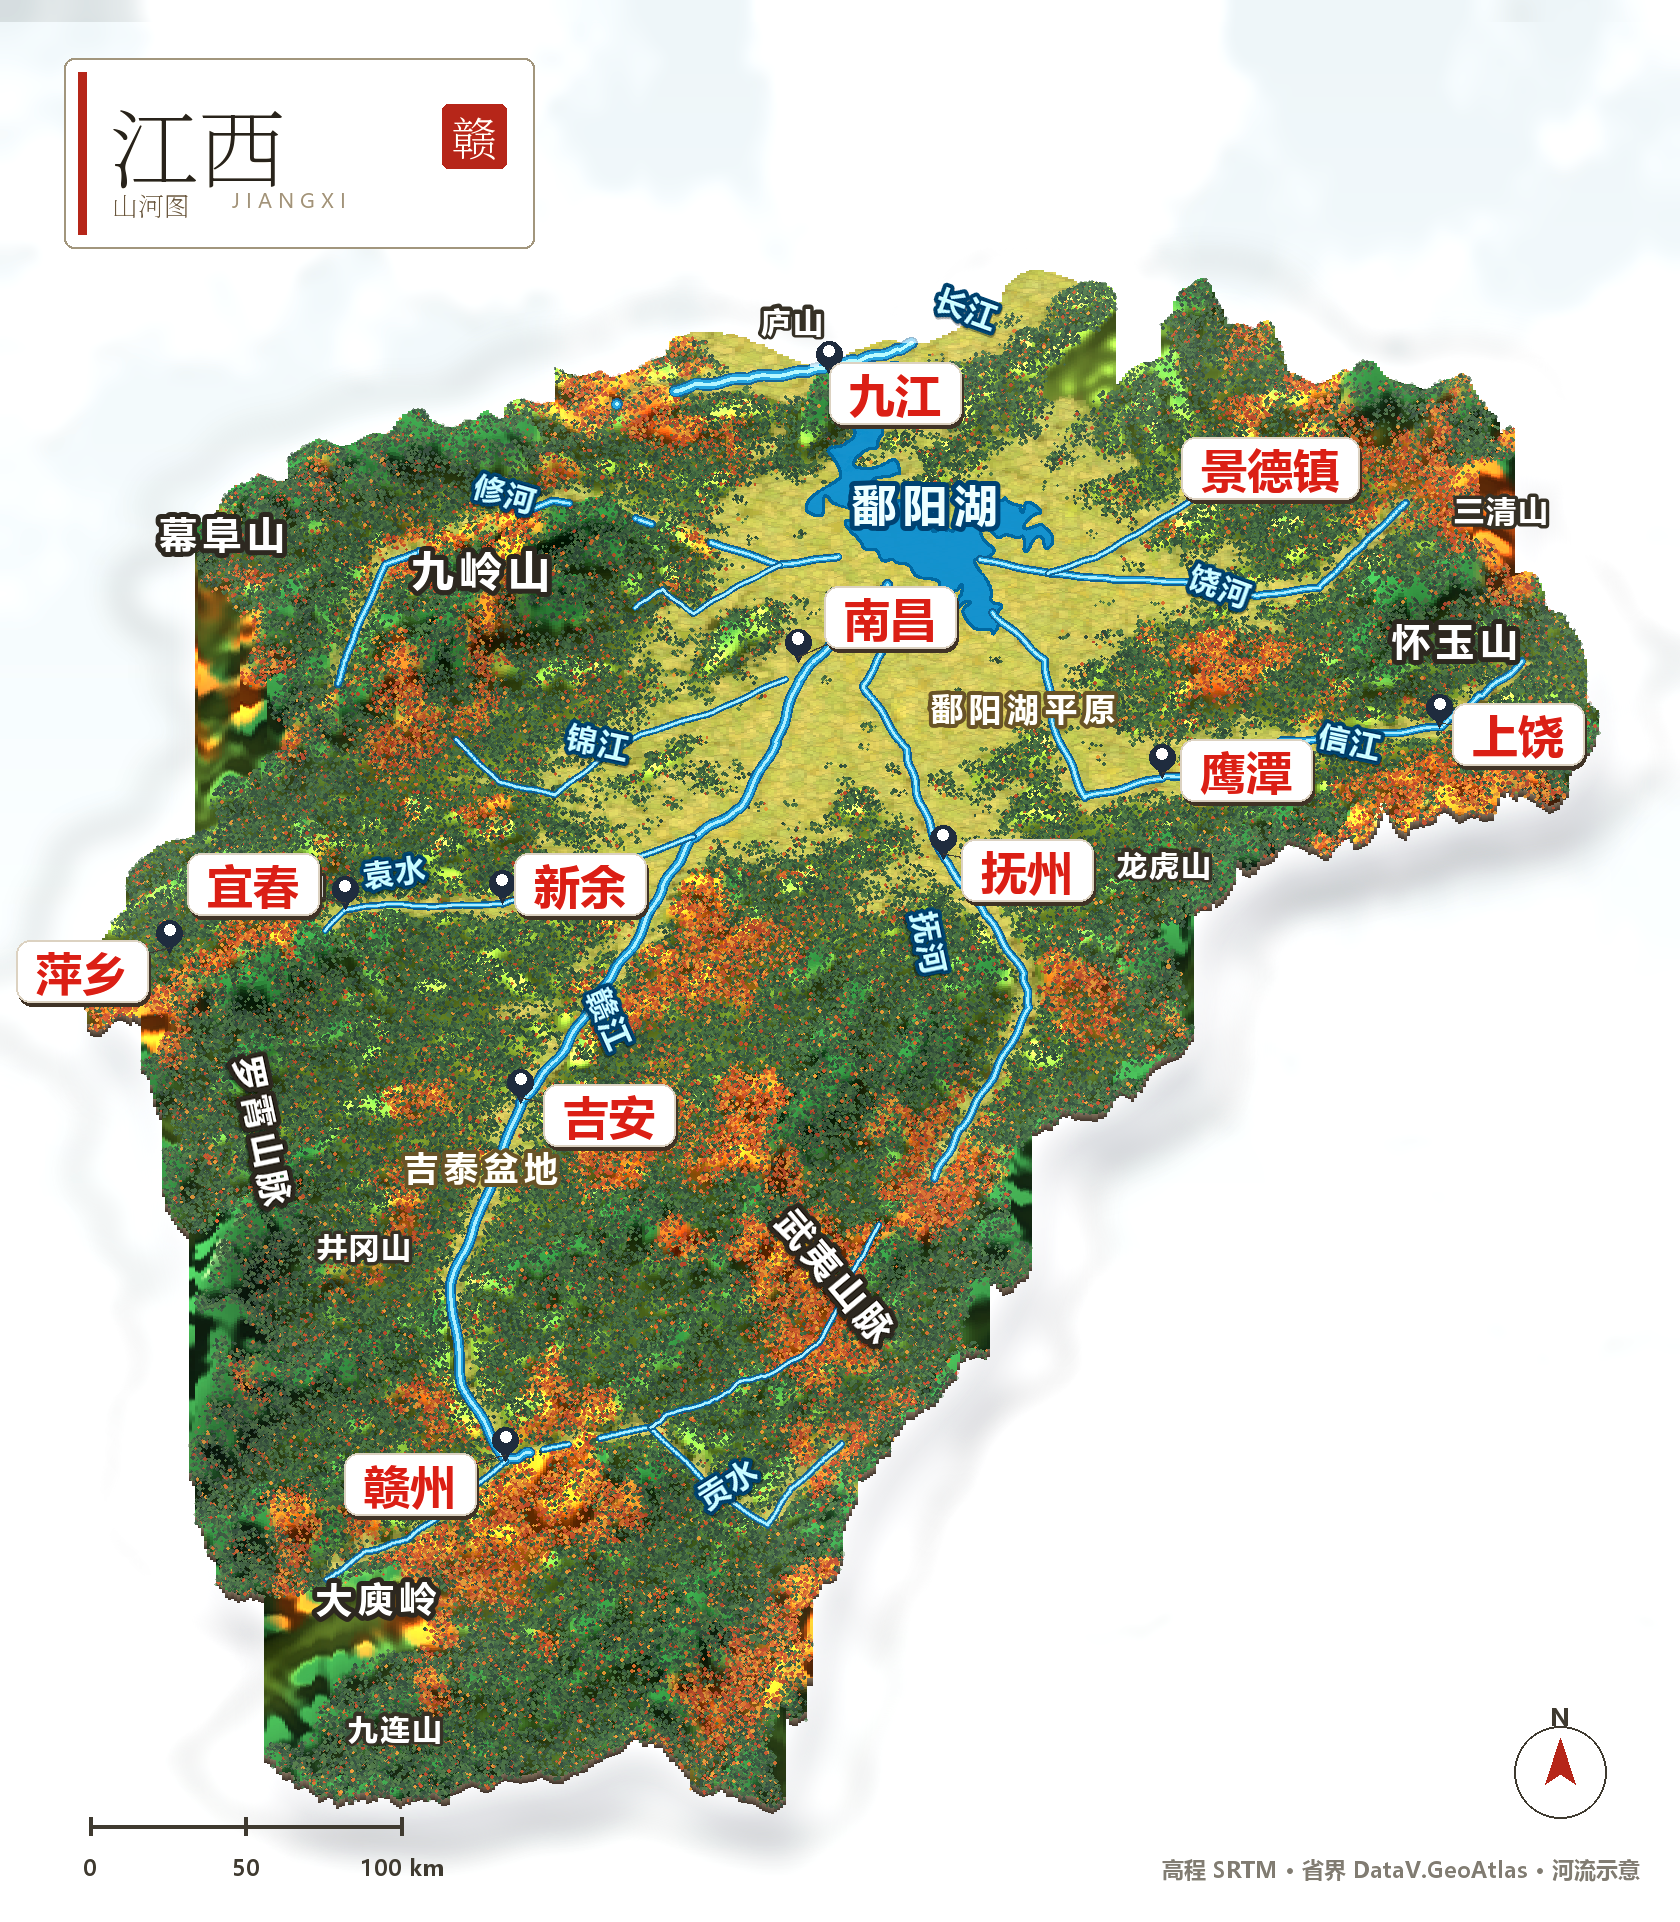
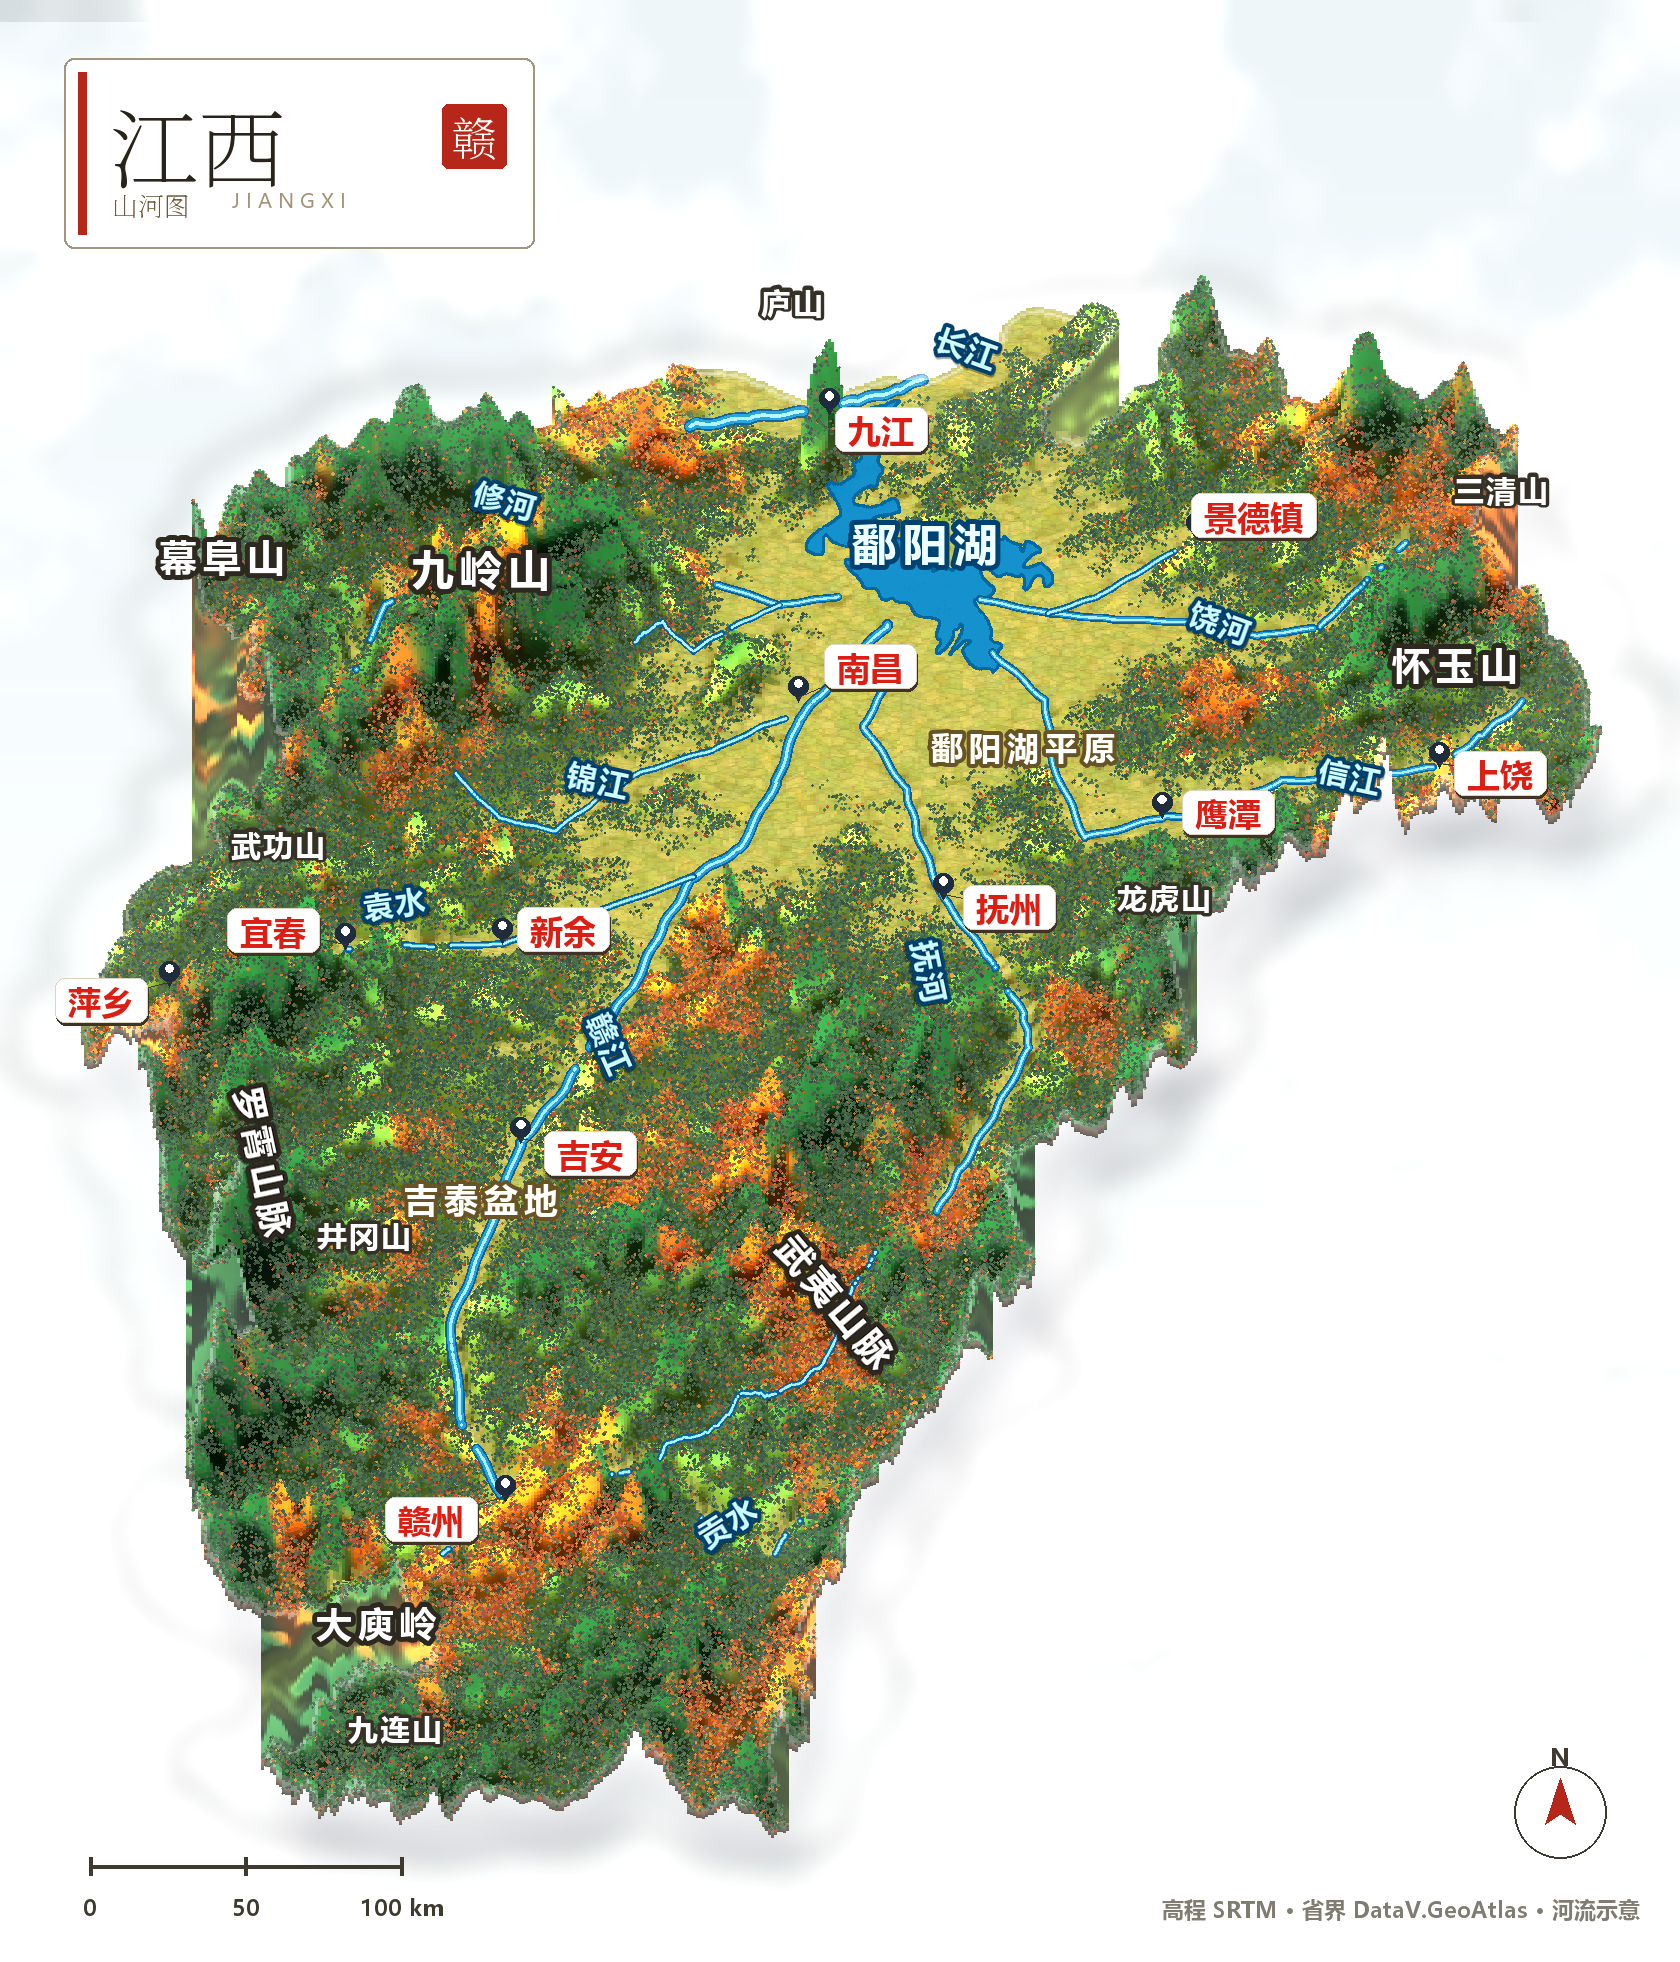
feat(江西山河图): 垂直夸张加大，城市注记缩小

diff --git a/江西山河图.html b/江西山河图.html
@@ -83,7 +83,7 @@
 <div class="stage">
   <div class="plate">
     <a href="assets/jiangxi-shanhetu.png" target="_blank" rel="noopener">
-      <img src="assets/jiangxi-shanhetu.png" width="1680" height="1922"
+      <img src="assets/jiangxi-shanhetu.png" width="1680" height="1962"
            alt="江西山河图：鄱阳湖平原居中，罗霄山脉、武夷山脉、南岭环抱，赣江、抚河、信江、饶河、修河汇入鄱阳湖。">
     </a>
   </div>

diff --git a/.dev/jiangxi-art.py b/.dev/jiangxi-art.py
@@ -258,7 +258,7 @@ def poly_mask(nx, ny):
 
 CORE = poly_mask(NX, NY)
 MASK = CORE.copy()
-for _ in range(2):
+for _ in range(3):
     MASK = MASK | np.roll(MASK, 1, 0) | np.roll(MASK, -1, 0) | np.roll(MASK, 1, 1) | np.roll(MASK, -1, 1)
 
 # ---------------------------------------------------------------- 配色
@@ -320,9 +320,9 @@ tex_col = (tex_np[:, 0::2].astype(np.float32) + tex_np[:, 1::2].astype(np.float3
 # ---------------------------------------------------------------- 斜视投影
 CW, CH = 3, 3
 KZ = 0.80
-VS = 0.052
+VS = 0.115
 OW = NX * CW
-OY0 = 210
+OY0 = 250
 SLAB = 8
 yplane = OY0 + (np.arange(NY) + 0.5) * CH * KZ
 OH = int(yplane[-1] + SLAB + 26)
@@ -367,6 +367,17 @@ for u in range(NX):
         jprev = j
 
 print("[oblique] %.1fs  %dx%d" % (time.time() - t0, OW, OH))
+# 外缘 3 圈渐隐，让切边溶进云雾
+OUTD = np.zeros((NY, NX), np.float32)
+cur = MASK & ~CORE
+OUTD[cur] = 1
+for d in range(2, 4):
+    nxt = cur & np.roll(cur, 1, 0) & np.roll(cur, -1, 0) & np.roll(cur, 1, 1) & np.roll(cur, -1, 1) & ~CORE
+    OUTD[nxt] = d
+    cur = nxt
+ccols = np.broadcast_to((np.arange(OW) // CW)[None, :], (OH, OW))
+edgefade = np.where(ids >= 0, np.clip(1.0 - OUTD[np.clip(ids, 0, NY - 1), ccols] * 0.20, 0.28, 1.0), 0.0)
+alpha = (alpha.astype(np.float32) * edgefade).astype(np.uint8)
 terr = Image.fromarray(np.dstack([out, alpha])).convert("RGBA")
 d2 = ImageDraw.Draw(terr, "RGBA")
 
@@ -379,7 +390,7 @@ def screen_y(j, h):
 dens = np.clip(sstep(6, 90, H) * (1 - plain * 0.95) * (0.45 + 1.0 * fbm(shape, 21, 3, 1201)), 0, 1)
 dens = np.where(MASK, dens, 0)
 flat = dens.ravel()
-nclump = 34000
+nclump = 42000
 idx = rng.choice(len(flat), size=nclump, replace=False, p=flat / flat.sum())
 jj = idx // NX; ii = idx % NX
 greens = np.array([(16, 40, 24), (24, 54, 28), (32, 66, 32), (42, 80, 36), (52, 92, 40)], np.int16)
@@ -398,8 +409,8 @@ for k in range(nclump):
             continue
         c = auts[rng.integers(0, 4)] if rng.random() < 0.07 + 0.7 * aut_w else greens[rng.integers(0, 5)]
         c = np.clip(c * f, 0, 255)
-        r = rng.uniform(0.7, 1.6)
-        d2.ellipse([x - r, y - r, x + r, y + r], fill=(int(c[0]), int(c[1]), int(c[2]), 210))
+        r = rng.uniform(0.6, 1.4)
+        d2.ellipse([x - r, y - r, x + r, y + r], fill=(int(c[0]), int(c[1]), int(c[2]), 198))
 print("[trees] %.1fs" % (time.time() - t0))
 
 
@@ -496,7 +507,7 @@ ha = np.clip((ha - 0.22) / 0.5, 0, 1) ** 1.2
 inside = np.asarray(am).astype(np.float32) / 255.0
 ha = ha * np.clip(1.0 - inside * 1.4, 0, 1)
 clouds = Image.new("RGBA", (OW, OH), (255, 255, 255, 0))
-clouds.putalpha(Image.fromarray((ha * 235).astype(np.uint8)))
+clouds.putalpha(Image.fromarray((ha * 205).astype(np.uint8)))
 scene.alpha_composite(clouds)
 
 # 额外的雾气团，贴边外扩
@@ -565,27 +576,29 @@ def rot_text(img, xy, text, font, fill, stroke, sw, angle, gap=3):
 
 
 def pin(d, x, y, s=1.0):
-    r = 13 * s
+    r = 10 * s
     d.ellipse([x - r, y - 2.6 * r, x + r, y - 0.6 * r], fill=(34, 44, 58, 255))
     d.polygon([(x - r * 0.72, y - 1.35 * r), (x + r * 0.72, y - 1.35 * r), (x, y)], fill=(34, 44, 58, 255))
     d.ellipse([x - r * 0.42, y - 2.3 * r, x + r * 0.42, y - 1.45 * r], fill=(245, 248, 250, 255))
 
 
 def city(d, x, y, name, dx, dy, tag=None):
+    dx *= 0.78
+    dy *= 0.78
     pin(d, x, y)
-    size = 46
+    size = 33
     f = fnt(size)
     tw = d.textlength(name, font=f)
-    w = tw + 40
-    h = 62
+    w = tw + 26
+    h = 44
     bx = x + dx - w / 2
     by = y + dy - h / 2
     # 引线
-    if abs(dx) > 40 or abs(dy) > 40:
-        d.line([(x, y - 6), (bx + w / 2, by + h / 2)], fill=(60, 56, 50, 120), width=2)
-    d.rounded_rectangle([bx + 2, by + 4, bx + w + 2, by + h + 4], radius=14, fill=(60, 50, 40, 55))
-    d.rounded_rectangle([bx, by, bx + w, by + h], radius=14, fill=(255, 253, 250, 246),
-                        outline=(206, 198, 184, 255), width=2)
+    if abs(dx) > 34 or abs(dy) > 34:
+        d.line([(x, y - 5), (bx + w / 2, by + h / 2)], fill=(60, 56, 50, 110), width=1)
+    d.rounded_rectangle([bx + 1, by + 3, bx + w + 1, by + h + 3], radius=10, fill=(60, 50, 40, 48))
+    d.rounded_rectangle([bx, by, bx + w, by + h], radius=10, fill=(255, 253, 250, 243),
+                        outline=(208, 200, 186, 255), width=1)
     d.text((bx + w / 2, by + h / 2 + 1), name, font=f, fill=(190, 40, 32, 255), anchor="mm")
     return (bx, by, bx + w, by + h)
 
